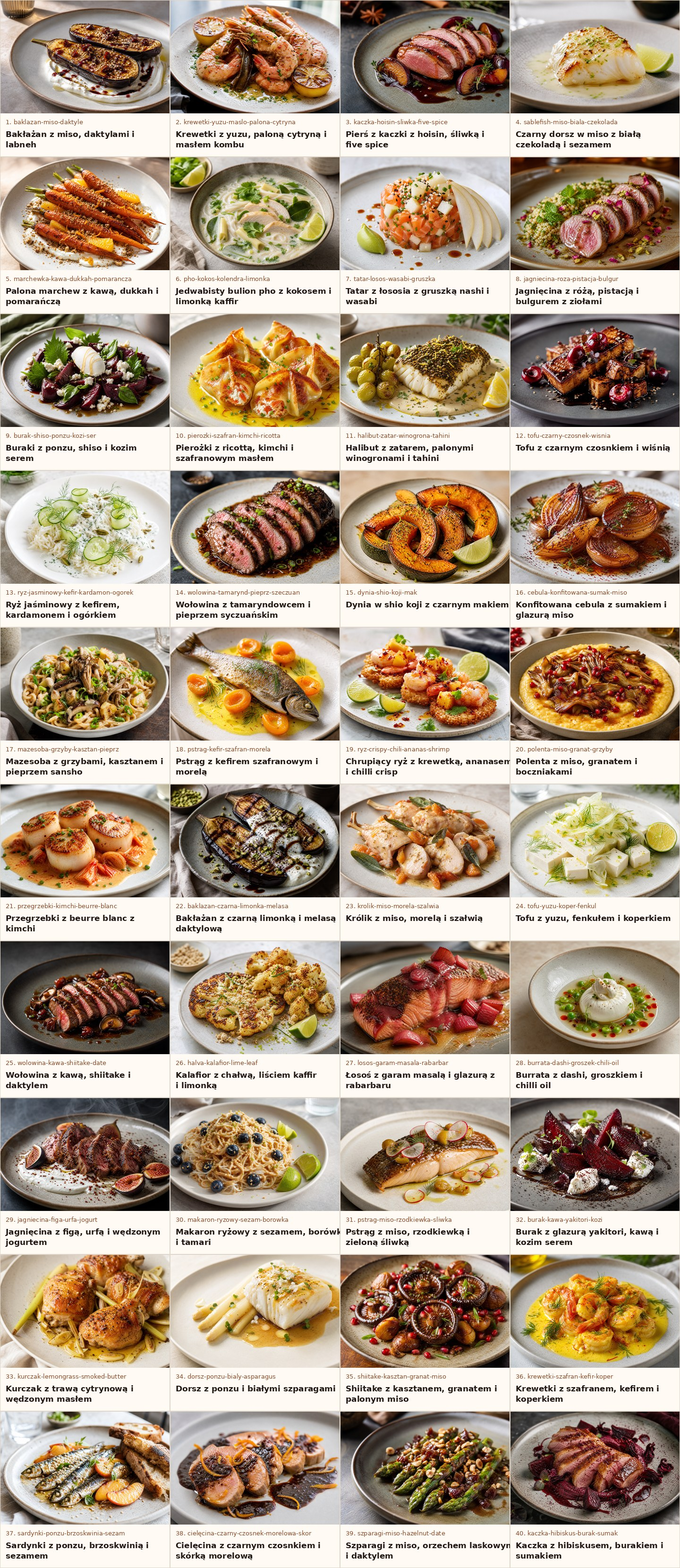
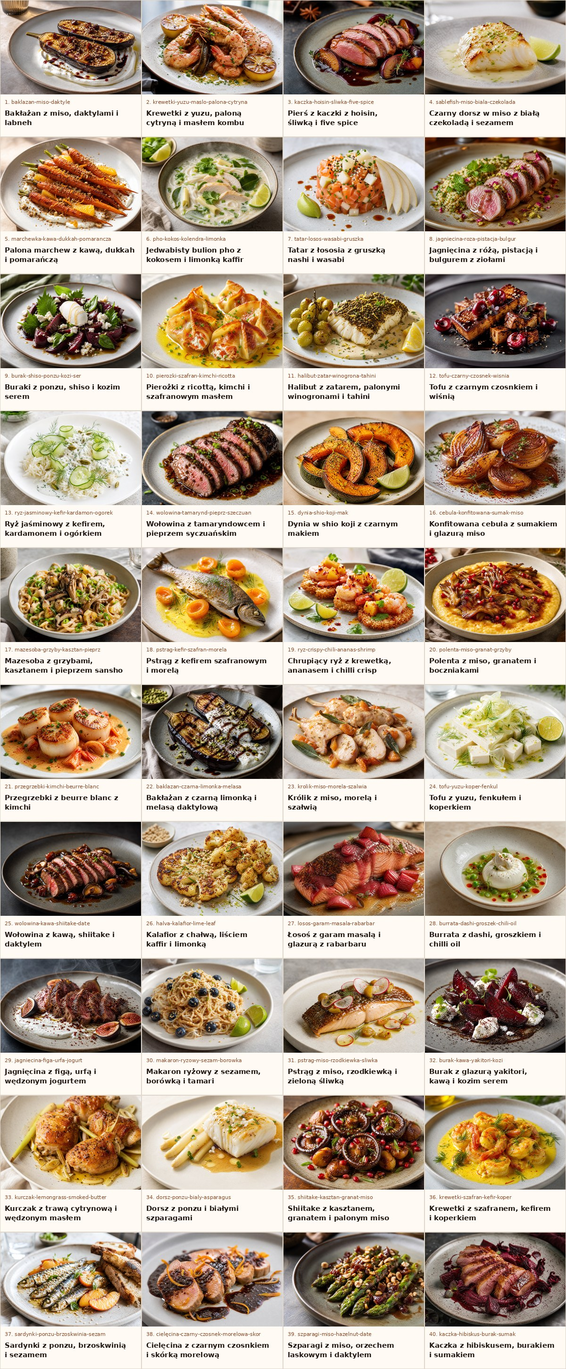
chore: add full recipe image audit sheet

diff --git a/scripts/make-recipe-contact-sheet.py b/scripts/make-recipe-contact-sheet.py
@@ -1,0 +1,72 @@
+from pathlib import Path
+from PIL import Image, ImageDraw, ImageFont
+import argparse, re, textwrap
+
+parser = argparse.ArgumentParser(description='Generate Palnik recipe image contact sheets.')
+parser.add_argument('--collection', default='all', help='Recipe collection to include, or all')
+parser.add_argument('--output', default=None, help='Output JPG path')
+args = parser.parse_args()
+
+root = Path(__file__).resolve().parents[1]
+text = (root / 'src/lib/recipes.ts').read_text()
+blocks = re.split(r'\n  \{\n', text)[1:]
+items = []
+for block in blocks:
+    if args.collection != 'all' and f"'{args.collection}'" not in block:
+        continue
+
+    def get(pattern):
+        match = re.search(pattern, block, re.S)
+        return match.group(1) if match else ''
+
+    items.append({
+        'slug': get(r"slug: '([^']+)'"),
+        'title': get(r"title: '([^']+)'"),
+        'image': get(r"image: '/recipes/([^']+)'"),
+        'collections': get(r"collections: \[([^\]]+)\]"),
+    })
+
+out_dir = root / 'docs/qa'
+out_dir.mkdir(parents=True, exist_ok=True)
+out_path = Path(args.output) if args.output else out_dir / (f"{args.collection}-contact-sheet.jpg" if args.collection != 'all' else 'all-recipes-contact-sheet.jpg')
+if not out_path.is_absolute():
+    out_path = root / out_path
+out_path.parent.mkdir(parents=True, exist_ok=True)
+
+thumb_w, thumb_h = 300, 200
+label_h = 90
+cols = 4
+rows = (len(items) + cols - 1) // cols
+sheet = Image.new('RGB', (cols * thumb_w, rows * (thumb_h + label_h)), (255, 250, 243))
+draw = ImageDraw.Draw(sheet)
+try:
+    title_font = ImageFont.truetype('/usr/share/fonts/truetype/dejavu/DejaVuSans-Bold.ttf', 15)
+    meta_font = ImageFont.truetype('/usr/share/fonts/truetype/dejavu/DejaVuSans.ttf', 11)
+except Exception:
+    title_font = meta_font = None
+
+for idx, item in enumerate(items):
+    x = (idx % cols) * thumb_w
+    y = (idx // cols) * (thumb_h + label_h)
+    image_path = root / 'public/recipes' / item['image']
+
+    bg = Image.new('RGB', (thumb_w, thumb_h), (32, 23, 20))
+    if image_path.exists():
+        im = Image.open(image_path).convert('RGB')
+        scale = max(thumb_w / im.width, thumb_h / im.height)
+        size = (round(im.width * scale), round(im.height * scale))
+        im = im.resize(size, Image.Resampling.LANCZOS)
+        left = (im.width - thumb_w) // 2
+        top = (im.height - thumb_h) // 2
+        bg = im.crop((left, top, left + thumb_w, top + thumb_h))
+    sheet.paste(bg, (x, y))
+
+    draw.rectangle([x, y + thumb_h, x + thumb_w, y + thumb_h + label_h], fill=(255, 250, 243))
+    draw.rectangle([x, y, x + thumb_w - 1, y + thumb_h + label_h - 1], outline=(224, 214, 202))
+    draw.text((x + 10, y + thumb_h + 9), f"{idx + 1}. {item['slug']}", fill=(138, 75, 42), font=meta_font)
+    for line_no, line in enumerate(textwrap.wrap(item['title'], width=29)[:2]):
+        draw.text((x + 10, y + thumb_h + 31 + line_no * 20), line, fill=(32, 23, 20), font=title_font)
+
+sheet.save(out_path, quality=88, optimize=True)
+print(out_path)
+print(f"Recipes: {len(items)}")

diff --git a/scripts/make-atelier-contact-sheet.py b/scripts/make-atelier-contact-sheet.py
@@ -1,61 +1,10 @@
 from pathlib import Path
-from PIL import Image, ImageDraw, ImageFont
-import re, textwrap
+import subprocess
 
 root = Path(__file__).resolve().parents[1]
-text = (root / 'src/lib/recipes.ts').read_text()
-blocks = re.split(r'\n  \{\n', text)[1:]
-items = []
-for block in blocks:
-    if "'atelier'" not in block:
-        continue
-    def get(pattern):
-        match = re.search(pattern, block, re.S)
-        return match.group(1) if match else ''
-    items.append({
-        'slug': get(r"slug: '([^']+)'"),
-        'title': get(r"title: '([^']+)'"),
-        'image': get(r"image: '/recipes/([^']+)'"),
-    })
-
-out_dir = root / 'docs/qa'
-out_dir.mkdir(parents=True, exist_ok=True)
-out_path = out_dir / 'atelier-contact-sheet.jpg'
-
-thumb_w, thumb_h = 360, 240
-label_h = 92
-cols = 4
-rows = (len(items) + cols - 1) // cols
-sheet = Image.new('RGB', (cols * thumb_w, rows * (thumb_h + label_h)), (255, 250, 243))
-draw = ImageDraw.Draw(sheet)
-try:
-    title_font = ImageFont.truetype('/usr/share/fonts/truetype/dejavu/DejaVuSans-Bold.ttf', 17)
-    meta_font = ImageFont.truetype('/usr/share/fonts/truetype/dejavu/DejaVuSans.ttf', 13)
-except Exception:
-    title_font = meta_font = None
-
-for idx, item in enumerate(items):
-    x = (idx % cols) * thumb_w
-    y = (idx // cols) * (thumb_h + label_h)
-    image_path = root / 'public/recipes' / item['image']
-
-    bg = Image.new('RGB', (thumb_w, thumb_h), (32, 23, 20))
-    if image_path.exists():
-        im = Image.open(image_path).convert('RGB')
-        scale = max(thumb_w / im.width, thumb_h / im.height)
-        size = (round(im.width * scale), round(im.height * scale))
-        im = im.resize(size, Image.Resampling.LANCZOS)
-        left = (im.width - thumb_w) // 2
-        top = (im.height - thumb_h) // 2
-        bg = im.crop((left, top, left + thumb_w, top + thumb_h))
-    sheet.paste(bg, (x, y))
-
-    draw.rectangle([x, y + thumb_h, x + thumb_w, y + thumb_h + label_h], fill=(255, 250, 243))
-    draw.rectangle([x, y, x + thumb_w - 1, y + thumb_h + label_h - 1], outline=(224, 214, 202))
-    draw.text((x + 12, y + thumb_h + 10), f"{idx + 1}. {item['slug']}", fill=(138, 75, 42), font=meta_font)
-    for line_no, line in enumerate(textwrap.wrap(item['title'], width=34)[:2]):
-        draw.text((x + 12, y + thumb_h + 34 + line_no * 22), line, fill=(32, 23, 20), font=title_font)
-
-sheet.save(out_path, quality=88)
-print(out_path)
-print(f"Atelier recipes: {len(items)}")
+subprocess.run([
+    'python3',
+    str(root / 'scripts/make-recipe-contact-sheet.py'),
+    '--collection', 'atelier',
+    '--output', 'docs/qa/atelier-contact-sheet.jpg',
+], check=True)
